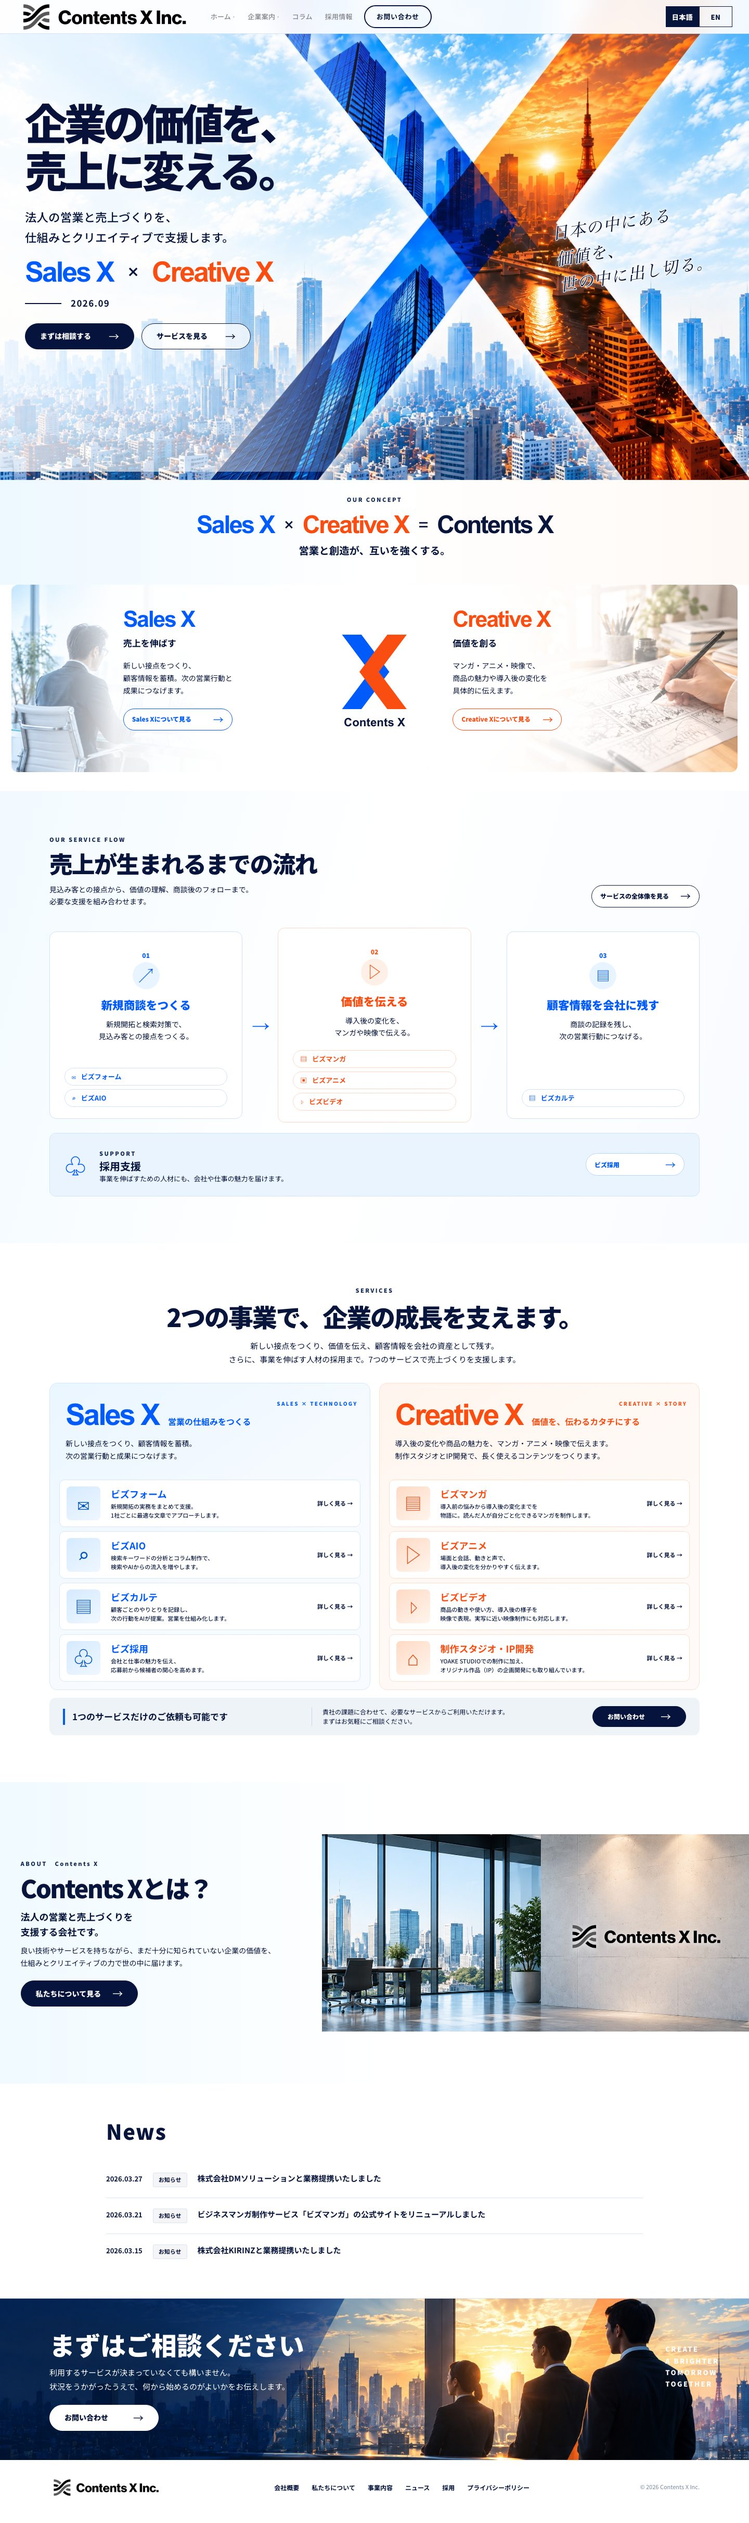
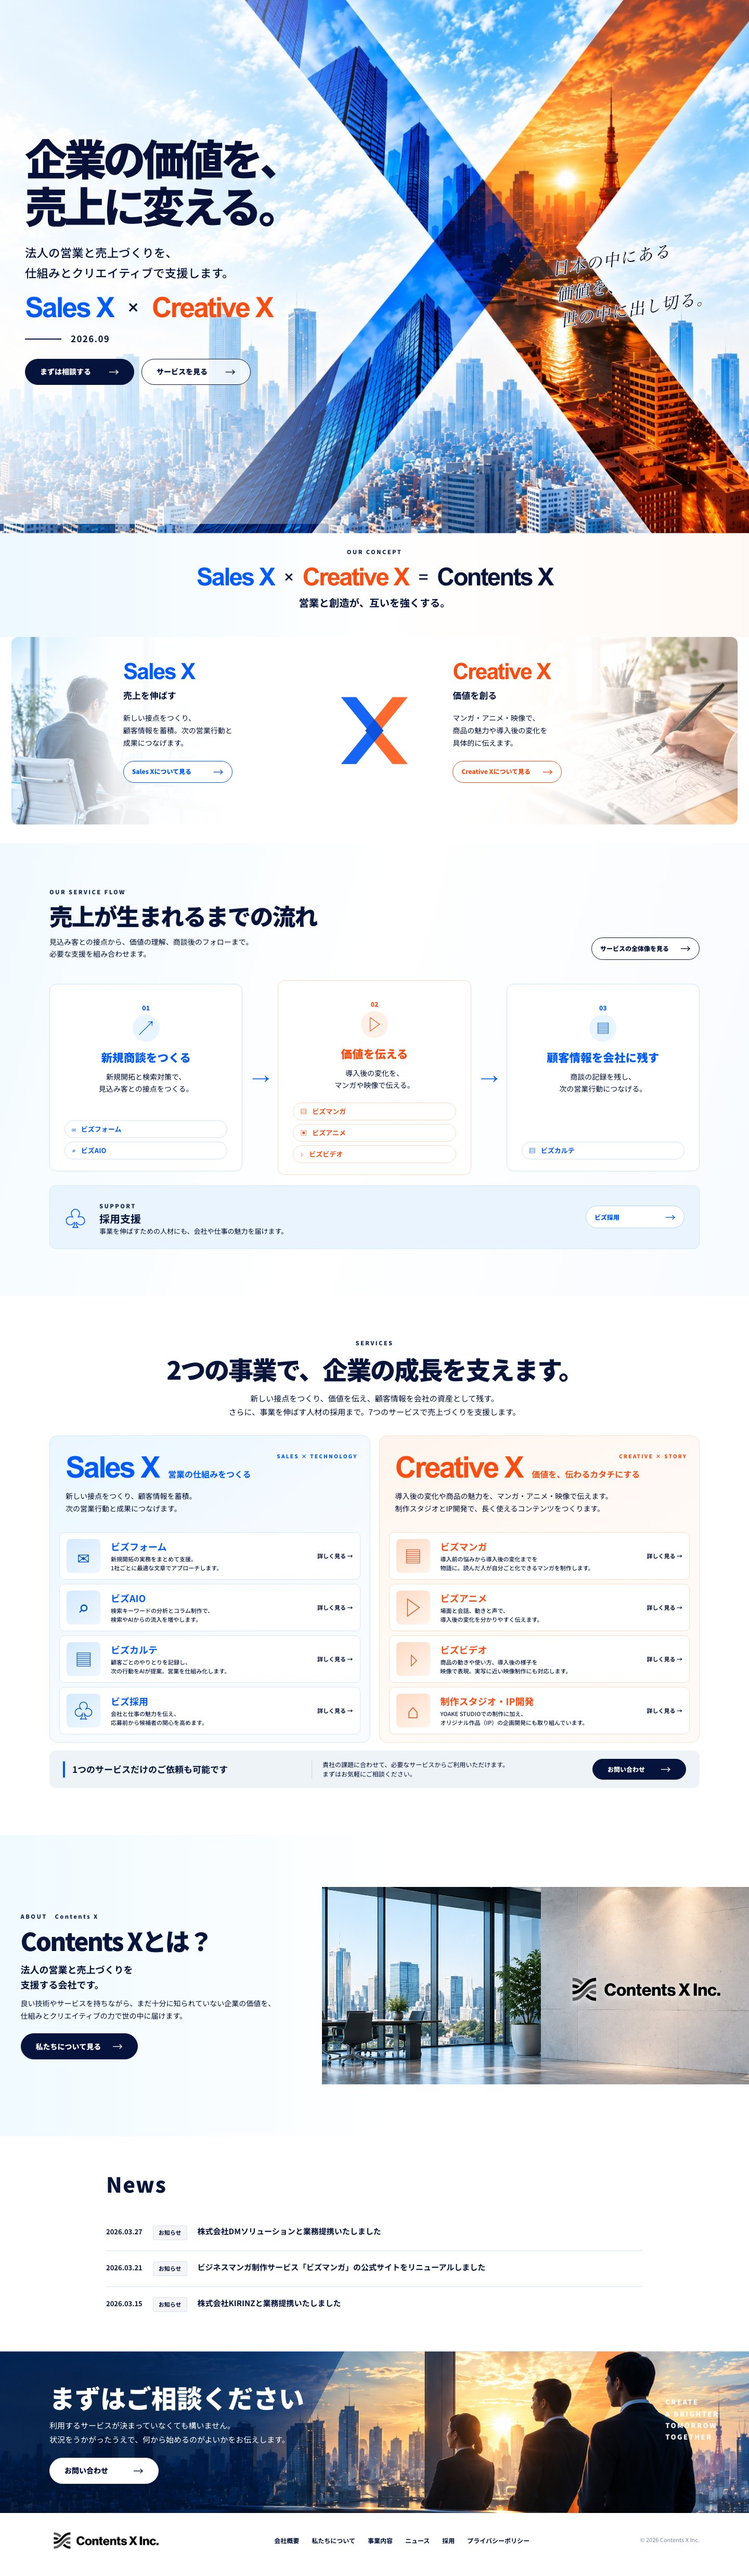
Refine homepage X mark and temporarily remove header

diff --git a/css/home-2026.css b/css/home-2026.css
@@ -17,12 +17,12 @@ body.cxh-home { --accent:#07143b; --accent-light:rgba(7,20,59,.05); --accent-rgb
 .cxh-button-light { color:#07143b; background:#fff; border:1px solid #fff; }
 
 /* Hero */
-.cxh-hero { position:relative; min-height:clamp(680px,56vw,900px); padding-top:64px; isolation:isolate; background:#e9f5ff; }
+.cxh-hero { position:relative; min-height:clamp(680px,56vw,900px); isolation:isolate; background:#e9f5ff; }
 .cxh-hero-visual,.cxh-hero-wash { position:absolute; inset:0; z-index:-1; }
 .cxh-hero-visual { background:url('/material/home-2026/hero.jpg') center bottom / cover no-repeat; transform:scale(1.035); transition:transform 1.8s cubic-bezier(.16,1,.3,1); }
 .cxh-home.cxh-loaded .cxh-hero-visual { transform:scale(1); }
 .cxh-hero-wash { background:linear-gradient(90deg,rgba(255,255,255,.74) 0%,rgba(255,255,255,.58) 26%,transparent 51%); }
-.cxh-hero-inner { width:min(100% - 96px,1560px); margin:auto; min-height:calc(clamp(680px,56vw,900px) - 64px); display:flex; align-items:center; justify-content:space-between; gap:30px; }
+.cxh-hero-inner { width:min(100% - 96px,1560px); margin:auto; min-height:clamp(680px,56vw,900px); display:flex; align-items:center; justify-content:space-between; gap:30px; }
 .cxh-hero-copy { width:min(51%,730px); margin-top:-12px; }
 .cxh-hero h1 { color:#071139; font-size:clamp(56px,5.65vw,94px); font-weight:900; letter-spacing:-.075em; line-height:1.13; white-space:nowrap; text-shadow:0 2px 22px rgba(255,255,255,.42); }
 html[lang="en"] .cxh-hero h1 { font-size:clamp(40px,5vw,72px); letter-spacing:-.055em; white-space:normal; }
@@ -62,7 +62,7 @@ html[lang="en"] .cxh-hero h1 { font-size:clamp(40px,5vw,72px); letter-spacing:-.
 .cxh-pill-link { justify-content:space-between; min-width:210px; min-height:39px; margin-top:22px; padding:8px 16px; background:#fff; border:1px solid currentColor; font-size:12px; }
 .cxh-pillar-sales .cxh-pill-link { color:#005bfa; }
 .cxh-pillar-creative .cxh-pill-link { color:#fa4d12; }
-.cxh-mark { position:relative; z-index:2; display:flex; flex-direction:column; align-items:center; min-width:0; color:#07143b; font-family:Arial,sans-serif; font-size:clamp(18px,1.55vw,24px); font-weight:900; text-align:center; line-height:1.1; white-space:nowrap; pointer-events:none; }
+.cxh-mark { position:relative; z-index:2; display:grid; place-items:center; min-width:0; pointer-events:none; }
 .cxh-mark-x { display:block; width:clamp(110px,10.8vw,164px); height:auto; overflow:visible; }
 
 /* Flow */
@@ -176,8 +176,8 @@ html[lang="en"] .cxh-hero h1 { font-size:clamp(40px,5vw,72px); letter-spacing:-.
   .cxh-pillar { min-height:330px; }
   .cxh-pillar-copy { width:56%; padding:37px 24px; }
   .cxh-pillar-sales .cxh-pillar-copy { margin-left:31%; }
-  .cxh-mark { flex-direction:row; justify-content:center; gap:12px; padding:15px 0; font-size:20px; }
-  .cxh-mark-x { width:70px; }
+  .cxh-mark { padding:15px 0; }
+  .cxh-mark-x { width:82px; }
   .cxh-service-item { grid-template-columns:54px minmax(0,1fr); }
   .cxh-service-icon { width:50px; height:50px; font-size:29px; }
   .cxh-service-item em { grid-column:2; text-align:right; }
@@ -189,7 +189,7 @@ html[lang="en"] .cxh-hero h1 { font-size:clamp(40px,5vw,72px); letter-spacing:-.
   .cxh-hero { min-height:950px; }
   .cxh-hero-visual { top:41%; background-position:center bottom; background-size:auto 100%; }
   .cxh-hero-wash { background:linear-gradient(180deg,rgba(255,255,255,.9) 0%,rgba(255,255,255,.82) 42%,transparent 65%); }
-  .cxh-hero-inner { display:block; width:min(100% - 38px,560px); min-height:0; padding-top:88px; }
+  .cxh-hero-inner { display:block; width:min(100% - 38px,560px); min-height:0; padding-top:54px; }
   .cxh-hero-copy { width:100%; margin:0; }
   .cxh-hero h1 { font-size:clamp(39px,10.4vw,72px); letter-spacing:-.075em; }
   html[lang="en"] .cxh-hero h1 { font-size:clamp(29px,7.6vw,54px); }
@@ -219,7 +219,7 @@ html[lang="en"] .cxh-hero h1 { font-size:clamp(40px,5vw,72px); letter-spacing:-.
   .cxh-pillar p { margin-top:12px; font-size:14px; }
   .cxh-pill-link { display:flex; width:100%; margin-top:18px; min-height:44px; }
   .cxh-mark { padding:20px 0; }
-  .cxh-mark-x { width:64px; }
+  .cxh-mark-x { width:72px; }
   .cxh-flow { padding:64px 0; }
   .cxh-section-head { display:block; text-align:center; }
   .cxh-section-head h2 { font-size:clamp(26px,6.8vw,39px); }
@@ -281,7 +281,7 @@ html[lang="en"] .cxh-hero h1 { font-size:clamp(40px,5vw,72px); letter-spacing:-.
 }
 @media (max-width:390px) {
   .cxh-hero { min-height:875px; }
-  .cxh-hero-inner { padding-top:78px; }
+  .cxh-hero-inner { padding-top:48px; }
   .cxh-hero h1 { font-size:clamp(34px,10.25vw,41px); }
   .cxh-hero-note { bottom:19%; }
   .cxh-hero-formula { font-size:clamp(25px,7vw,29px); }

diff --git a/index.html b/index.html
@@ -215,21 +215,6 @@
   <link rel="alternate" type="application/rss+xml" title="ContentsX RSS" href="https://contentsx.jp/feed.xml">
 </head>
 <body class="cxh-home" data-theme="neutral">
-  <!-- ===== ヘッダー ===== -->
-  <header class="header" id="header">
-    <div class="header-inner">
-      <a href="./" class="logo">
-        <img width="180" height="36" src="material/images/logo/ContentsX.webp" alt="ContentsX" class="logo-img">
-      </a>
-      <nav class="nav" id="nav"><!-- nav.js が生成 --></nav>
-      <div class="header-right">
-        <!-- 言語ボタンは nav.js が自動生成 -->
-        <button class="hamburger" id="hamburger" aria-label="メニュー">
-          <span></span><span></span><span></span>
-        </button>
-      </div>
-    </div>
-  </header>
   <main id="main">
     <section class="cxh-hero" id="hero" aria-labelledby="cxh-hero-title">
       <div class="cxh-hero-visual" aria-hidden="true"></div>
@@ -266,7 +251,7 @@
           <a class="cxh-pill-link" href="/services/#list-group-sales"><span data-ja="Sales Xについて見る" data-en="Explore Sales X">Sales Xについて見る</span><span aria-hidden="true">→</span></a>
         </div>
       </div>
-      <div class="cxh-mark" aria-label="Contents X"><svg class="cxh-mark-x" viewBox="0 0 200 220" aria-hidden="true" focusable="false"><path fill="#005bfa" d="M20 18h48l69 92-69 92H20l69-92z"/><path fill="#fa4d12" d="M132 18h48l-69 92 69 92h-48l-69-92z"/></svg><span>Contents X</span></div>
+      <div class="cxh-mark" role="img" aria-label="Sales XとCreative Xが交差するX"><svg class="cxh-mark-x" viewBox="0 0 320 320" aria-hidden="true" focusable="false"><path fill="#ff6a30" d="M232 28h60L184 160l108 132h-60L124 160z"/><path fill="#1764f5" d="M28 28h60l108 132L88 292H28l108-132z"/><path fill="#0c52dc" d="m160 116 36 44-36 44-36-44z"/></svg></div>
       <div class="cxh-pillar cxh-pillar-creative" data-cxh-reveal>
         <div class="cxh-pillar-photo" data-cxh-curtain aria-hidden="true"></div>
         <div class="cxh-pillar-copy">
@@ -363,7 +348,6 @@
   </footer>
 
   <script src="/js/i18n.js" defer></script>
-  <script src="/js/nav.js" defer></script>
   <script src="/js/tracking.js" defer></script>
   <script src="/js/wp-config.js" defer></script>
   <script src="/js/wp-api.js" defer></script>

diff --git a/SPEC.md b/SPEC.md
@@ -40,15 +40,15 @@ contact フォーム送信時にメッセージ末尾にトラッキング情報
 
 ## 3. トップページ 2026年9月版 ⭐
 
-- デザイン基準: `/Users/hirasawa4323/Documents/contentX/デザイン案画像/会社HP/TOP確定/分析出力 1〜14.png`。奇数=PC、偶数=SP、番号順=ページ上から下。ヘッダーは既存HTML/CSS/JSを流用し、お知らせセクションのマークアップと `wp-api.js` による更新も維持。
-- 構成: Hero → コンセプト → Sales X / Creative X → 売上が生まれるまでの流れ → サービス一覧 → Contents Xとは → News → 相談CTA → フッター。旧ロゴカルーセル・新作情報・制作事例モーダル・旧Hero OPはトップから撤去。新作情報へのヘッダーメニューはビズマンガのビズ書庫へ移動する。
+- デザイン基準: `/Users/hirasawa4323/Documents/contentX/デザイン案画像/会社HP/TOP確定/分析出力 1〜14.png`。奇数=PC、偶数=SP、番号順=ページ上から下。トップのヘッダーは2026-09-29の追加指示で一時撤去（他ページは既存ヘッダーを維持）。お知らせセクションのマークアップと `wp-api.js` による更新は維持。
+- 構成: Hero → コンセプト → Sales X / Creative X → 売上が生まれるまでの流れ → サービス一覧 → Contents Xとは → News → 相談CTA → フッター。旧ロゴカルーセル・新作情報・制作事例モーダル・旧Hero OPはトップから撤去。
 - 白・無彩色を土台に、画像内の青とオレンジをSales X / Creative Xの識別色として使用。旧マゼンタテーマはトップで使わない（`body[data-theme="neutral"]`）。他ページのテーマは変更しない。
 - 素材: `material/home-2026/{hero,sales,creative,about,contact}.jpg` と事業紹介用の `sales-safe.jpg` / `creative-safe.jpg`。ユーザー指定デザインを参照に生成した画像で、文字とロゴは画像へ焼き込まずHTMLで重ねる。事業紹介の元画像は被写体が素材の端で切れていたため、余白を設けて再生成した `*-safe.jpg` を表示に使用する。生成したオフィスはイメージ画像として扱う。
 - モーション: `js/home-2026.js` と `css/home-2026.css`。ヒーロー文字の登場、スクロールでの段階的な表示、画像の左→右ワイプ（Sales X / Creative X の写真にも適用）、カード・ボタンのホバー移動。`prefers-reduced-motion: reduce` では瞬時表示。JS不在でも内容は表示する。ワイプ要素自身を幅0にクリップすると交差監視できないため、親コンテナを監視して子要素を表示する。
-- ヒーロー右側の理念コピーは、都市画像の明暗の上でも読めるよう紺色の字に白い縁と淡い白い影を重ねる。事業紹介の中央「X / Contents X」は独立したグリッド列に配置して左右の文言・CTAに重ならないようにする。XのSVGは図形の上下18・左右20 viewBox単位の余白を取り、青とオレンジの両端を欠けずに描画する。写真は左カードを左寄せ、右カードを右寄せとして、余白付き素材の人物と作画の手を表示する。
+- ヒーロー右側の理念コピーは、都市画像の明暗の上でも読めるよう紺色の字に白い縁と淡い白い影を重ねる。事業紹介の中央ロゴは、青とオレンジが交差する文字なしのXマークをインラインSVGで表示する。独立したグリッド列に配置して左右の文言・CTAに重ならないようにし、SVGの viewBox に余白を取って両端を欠けずに描画する。写真は左カードを左寄せ、右カードを右寄せとして、余白付き素材の人物と作画の手を表示する。
 - レスポンシブ: 768px以下でヒーローを縦構成、事業カードとサービス欄を1列にする。事業紹介は1100px以下で縦並びに切り替える。文字は `clamp()` で連続スケール。320/390/412/448/640/768/1024/1100/1101/1280/1440/1920pxの横溢れ・事業カード内の文字収まりをブラウザ確認。
 - リンク: 総合ページは `/services/`（Issue #20の別制作）。ビズフォーム `https://bizform.contentsx.jp/`、ビズマンガ `https://bizmanga.contentsx.jp/`、ビズ採用 `https://ichioshi.contentsx.jp/` は公開先へ直リンク。外部URLが未確定のサービスはIssue #20で用意された `/services/{slug}/`、Sales X / Creative Xの紹介は `/services/#list-group-{sales|creative}` に向ける。制作スタジオ・IP開発は総合ページへ。Issue #20のページが本番公開されるまでこれらの内部リンクは到達先未実装。
-- 旧トップ用JS（`script.js`、`hero-new.js`、`hero-fx.js`、`cta.js` 等）はトップでは読み込まず、他ページ用の実装とファイルは残す。`i18n.js` → `nav.js` の読込順を維持。
+- 旧トップ用JS（`script.js`、`hero-new.js`、`hero-fx.js`、`cta.js` 等）はトップでは読み込まず、他ページ用の実装とファイルは残す。トップではヘッダー撤去に合わせ `nav.js` も読み込まない。`i18n.js` は引き続き読み込む。他ページでは `i18n.js` → `nav.js` の読込順を維持。
 
 ### 3.1 旧Hero v2（2026-09-29トップから撤去・履歴）
 

diff --git a/CLAUDE.md b/CLAUDE.md
@@ -33,7 +33,7 @@
 <script src="js/i18n.js" defer></script>
 <script src="js/nav.js" defer></script>
 ```
-i18n.js → nav.js の順序が必須。全10ページに適用済み。
+i18n.js → nav.js の順序が必須。ヘッダーを一時撤去したトップを除くページに適用済み。
 
 ### 特殊対応
 - `data-ph-ja` / `data-ph-en`: input placeholder の翻訳（contact.html）
@@ -48,7 +48,7 @@ i18n.js → nav.js の順序が必須。全10ページに適用済み。
 
 | ページ | ファイル | 主要JS |
 |--------|---------|--------|
-| トップ | index.html | i18n.js, nav.js, wp-api.js, home-2026.js（仕様は SPEC.md §3） |
+| トップ | index.html | i18n.js, wp-api.js, home-2026.js（ヘッダー一時撤去・`nav.js` 非読込。仕様は SPEC.md §3） |
 | 会社概要 | company.html | script.js, dl-modal.js |
 | 役員紹介 | leadership.html | script.js, dl-modal.js |
 | 私たちの思い | our-thoughts.html | dl-modal.js |
